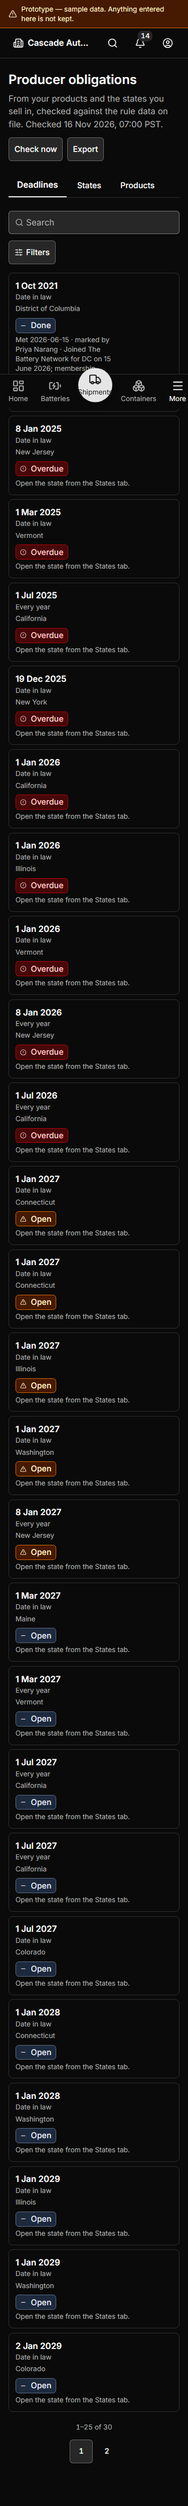
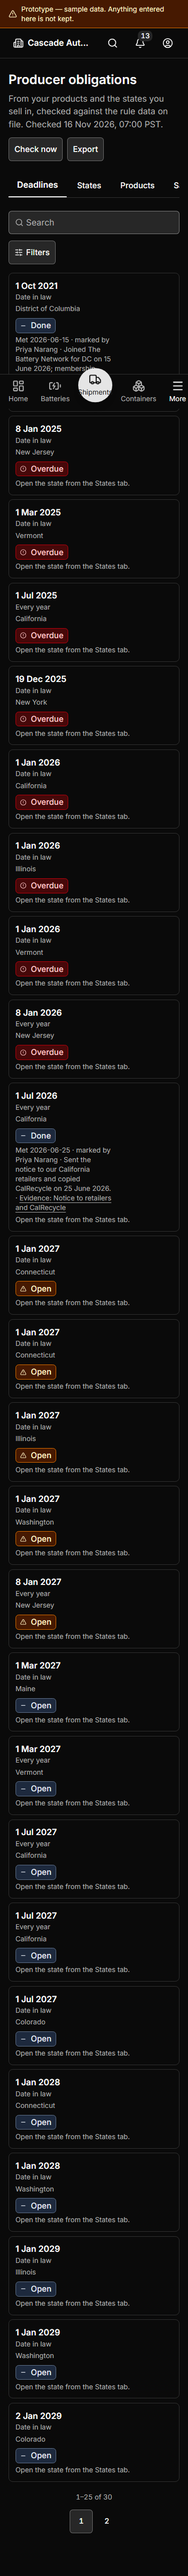
docs(contact-sheet): Filings — the Sales tab, a product's plan and California's notice; the obligations screens this unit changed, both themes, three widths
New screens: obligations-sales, obligations-plan, document-filing-packet
(resolved from the running product: the notice off its deadline's packet
link, the plan off a product's Plan link). Recaptured: the four
obligations screens, which gained the Sales tab, packets under deadlines
and the Plan link. No other screen was captured or touched.

diff --git a/contact-sheet/index.html b/contact-sheet/index.html
@@ -37,7 +37,7 @@
   <p class="lede">Every screen unit 01 built, in both themes, at 375px, 768px and 1440px, before and after the
   <code>b1a-01x-ui-pass</code> layout pass. Regenerate with <code>pnpm contact-sheet</code>. Click any image for it full size.</p>
 </header>
-<nav><a href="#group-public">Public</a><a href="#group-dashboard">Dashboard</a><a href="#group-batteries">Batteries</a><a href="#group-battery-record">Battery record</a><a href="#group-review">Review</a><a href="#group-containers">Containers</a><a href="#group-shipments">Shipments</a><a href="#group-documents">Documents</a><a href="#group-catalog">Catalog</a><a href="#group-settings">Settings</a><a href="#group-audit-log">Audit log</a><a href="#group-obligations">Obligations</a><a href="#group-denial">Denial</a></nav>
+<nav><a href="#group-public">Public</a><a href="#group-dashboard">Dashboard</a><a href="#group-batteries">Batteries</a><a href="#group-battery-record">Battery record</a><a href="#group-review">Review</a><a href="#group-containers">Containers</a><a href="#group-shipments">Shipments</a><a href="#group-documents">Documents</a><a href="#group-catalog">Catalog</a><a href="#group-settings">Settings</a><a href="#group-audit-log">Audit log</a><a href="#group-obligations">Obligations</a><a href="#group-filings">Filings</a><a href="#group-denial">Denial</a></nav>
 
 <section class="group">
   <h2 id="group-public">Public</h2>
@@ -3214,6 +3214,184 @@
         <div class="cells">
           <div class="cell missing"><span>before — not captured</span></div>
           <figure class="cell"><figcaption>after</figcaption><a href="after/obligations-auditor__dark__1440.png" target="_blank" rel="noreferrer"><img loading="lazy" src="after/obligations-auditor__dark__1440.png" alt="after"></a></figure>
+        </div>
+      </div>
+    </div>
+  </article>
+</section>
+<section class="group">
+  <h2 id="group-filings">Filings</h2>
+  
+  <article class="screen" id="obligations-sales">
+    <header>
+      <h3>Obligations — sales</h3>
+      <p class="meta"><code>/obligations</code> · P3 · Producer Compliance Officer, Cascade</p>
+      <p class="note">The latest full year by default: every product and state, a number or Not on file; Illinois' first entry kept, marked replaced (Rule 8.17).</p>
+    </header>
+    
+    <div class="theme">
+      <h4>light</h4>
+      
+      <div class="pair">
+        <p class="width">375 · phone in a storage room</p>
+        <div class="cells">
+          <div class="cell missing"><span>before — not captured</span></div>
+          <figure class="cell"><figcaption>after</figcaption><a href="after/obligations-sales__light__375.png" target="_blank" rel="noreferrer"><img loading="lazy" src="after/obligations-sales__light__375.png" alt="after"></a></figure>
+        </div>
+      </div>
+      <div class="pair">
+        <p class="width">768 · tablet</p>
+        <div class="cells">
+          <div class="cell missing"><span>before — not captured</span></div>
+          <figure class="cell"><figcaption>after</figcaption><a href="after/obligations-sales__light__768.png" target="_blank" rel="noreferrer"><img loading="lazy" src="after/obligations-sales__light__768.png" alt="after"></a></figure>
+        </div>
+      </div>
+      <div class="pair">
+        <p class="width">1440 · desk</p>
+        <div class="cells">
+          <div class="cell missing"><span>before — not captured</span></div>
+          <figure class="cell"><figcaption>after</figcaption><a href="after/obligations-sales__light__1440.png" target="_blank" rel="noreferrer"><img loading="lazy" src="after/obligations-sales__light__1440.png" alt="after"></a></figure>
+        </div>
+      </div>
+    </div>
+    <div class="theme">
+      <h4>dark</h4>
+      
+      <div class="pair">
+        <p class="width">375 · phone in a storage room</p>
+        <div class="cells">
+          <div class="cell missing"><span>before — not captured</span></div>
+          <figure class="cell"><figcaption>after</figcaption><a href="after/obligations-sales__dark__375.png" target="_blank" rel="noreferrer"><img loading="lazy" src="after/obligations-sales__dark__375.png" alt="after"></a></figure>
+        </div>
+      </div>
+      <div class="pair">
+        <p class="width">768 · tablet</p>
+        <div class="cells">
+          <div class="cell missing"><span>before — not captured</span></div>
+          <figure class="cell"><figcaption>after</figcaption><a href="after/obligations-sales__dark__768.png" target="_blank" rel="noreferrer"><img loading="lazy" src="after/obligations-sales__dark__768.png" alt="after"></a></figure>
+        </div>
+      </div>
+      <div class="pair">
+        <p class="width">1440 · desk</p>
+        <div class="cells">
+          <div class="cell missing"><span>before — not captured</span></div>
+          <figure class="cell"><figcaption>after</figcaption><a href="after/obligations-sales__dark__1440.png" target="_blank" rel="noreferrer"><img loading="lazy" src="after/obligations-sales__dark__1440.png" alt="after"></a></figure>
+        </div>
+      </div>
+    </div>
+  </article>
+  <article class="screen" id="obligations-plan">
+    <header>
+      <h3>Obligations — a product's plan</h3>
+      <p class="meta"><code>/obligations</code> · P3 · Producer Compliance Officer, Cascade</p>
+      <p class="note">Every duty the product carries across its states, earliest first, marking with the rest (Rule 8.23).</p>
+    </header>
+    
+    <div class="theme">
+      <h4>light</h4>
+      
+      <div class="pair">
+        <p class="width">375 · phone in a storage room</p>
+        <div class="cells">
+          <div class="cell missing"><span>before — not captured</span></div>
+          <figure class="cell"><figcaption>after</figcaption><a href="after/obligations-plan__light__375.png" target="_blank" rel="noreferrer"><img loading="lazy" src="after/obligations-plan__light__375.png" alt="after"></a></figure>
+        </div>
+      </div>
+      <div class="pair">
+        <p class="width">768 · tablet</p>
+        <div class="cells">
+          <div class="cell missing"><span>before — not captured</span></div>
+          <figure class="cell"><figcaption>after</figcaption><a href="after/obligations-plan__light__768.png" target="_blank" rel="noreferrer"><img loading="lazy" src="after/obligations-plan__light__768.png" alt="after"></a></figure>
+        </div>
+      </div>
+      <div class="pair">
+        <p class="width">1440 · desk</p>
+        <div class="cells">
+          <div class="cell missing"><span>before — not captured</span></div>
+          <figure class="cell"><figcaption>after</figcaption><a href="after/obligations-plan__light__1440.png" target="_blank" rel="noreferrer"><img loading="lazy" src="after/obligations-plan__light__1440.png" alt="after"></a></figure>
+        </div>
+      </div>
+    </div>
+    <div class="theme">
+      <h4>dark</h4>
+      
+      <div class="pair">
+        <p class="width">375 · phone in a storage room</p>
+        <div class="cells">
+          <div class="cell missing"><span>before — not captured</span></div>
+          <figure class="cell"><figcaption>after</figcaption><a href="after/obligations-plan__dark__375.png" target="_blank" rel="noreferrer"><img loading="lazy" src="after/obligations-plan__dark__375.png" alt="after"></a></figure>
+        </div>
+      </div>
+      <div class="pair">
+        <p class="width">768 · tablet</p>
+        <div class="cells">
+          <div class="cell missing"><span>before — not captured</span></div>
+          <figure class="cell"><figcaption>after</figcaption><a href="after/obligations-plan__dark__768.png" target="_blank" rel="noreferrer"><img loading="lazy" src="after/obligations-plan__dark__768.png" alt="after"></a></figure>
+        </div>
+      </div>
+      <div class="pair">
+        <p class="width">1440 · desk</p>
+        <div class="cells">
+          <div class="cell missing"><span>before — not captured</span></div>
+          <figure class="cell"><figcaption>after</figcaption><a href="after/obligations-plan__dark__1440.png" target="_blank" rel="noreferrer"><img loading="lazy" src="after/obligations-plan__dark__1440.png" alt="after"></a></figure>
+        </div>
+      </div>
+    </div>
+  </article>
+  <article class="screen" id="document-filing-packet">
+    <header>
+      <h3>Document — California's notice</h3>
+      <p class="meta"><code>/documents/[id]</code> · P3 · Producer Compliance Officer, Cascade</p>
+      <p class="note">A packet is not the filing, and where to send it; each item filled or a gap (Rules 8.19, 8.20). The seeded packet has no stored file, and says so.</p>
+    </header>
+    
+    <div class="theme">
+      <h4>light</h4>
+      
+      <div class="pair">
+        <p class="width">375 · phone in a storage room</p>
+        <div class="cells">
+          <div class="cell missing"><span>before — not captured</span></div>
+          <figure class="cell"><figcaption>after</figcaption><a href="after/document-filing-packet__light__375.png" target="_blank" rel="noreferrer"><img loading="lazy" src="after/document-filing-packet__light__375.png" alt="after"></a></figure>
+        </div>
+      </div>
+      <div class="pair">
+        <p class="width">768 · tablet</p>
+        <div class="cells">
+          <div class="cell missing"><span>before — not captured</span></div>
+          <figure class="cell"><figcaption>after</figcaption><a href="after/document-filing-packet__light__768.png" target="_blank" rel="noreferrer"><img loading="lazy" src="after/document-filing-packet__light__768.png" alt="after"></a></figure>
+        </div>
+      </div>
+      <div class="pair">
+        <p class="width">1440 · desk</p>
+        <div class="cells">
+          <div class="cell missing"><span>before — not captured</span></div>
+          <figure class="cell"><figcaption>after</figcaption><a href="after/document-filing-packet__light__1440.png" target="_blank" rel="noreferrer"><img loading="lazy" src="after/document-filing-packet__light__1440.png" alt="after"></a></figure>
+        </div>
+      </div>
+    </div>
+    <div class="theme">
+      <h4>dark</h4>
+      
+      <div class="pair">
+        <p class="width">375 · phone in a storage room</p>
+        <div class="cells">
+          <div class="cell missing"><span>before — not captured</span></div>
+          <figure class="cell"><figcaption>after</figcaption><a href="after/document-filing-packet__dark__375.png" target="_blank" rel="noreferrer"><img loading="lazy" src="after/document-filing-packet__dark__375.png" alt="after"></a></figure>
+        </div>
+      </div>
+      <div class="pair">
+        <p class="width">768 · tablet</p>
+        <div class="cells">
+          <div class="cell missing"><span>before — not captured</span></div>
+          <figure class="cell"><figcaption>after</figcaption><a href="after/document-filing-packet__dark__768.png" target="_blank" rel="noreferrer"><img loading="lazy" src="after/document-filing-packet__dark__768.png" alt="after"></a></figure>
+        </div>
+      </div>
+      <div class="pair">
+        <p class="width">1440 · desk</p>
+        <div class="cells">
+          <div class="cell missing"><span>before — not captured</span></div>
+          <figure class="cell"><figcaption>after</figcaption><a href="after/document-filing-packet__dark__1440.png" target="_blank" rel="noreferrer"><img loading="lazy" src="after/document-filing-packet__dark__1440.png" alt="after"></a></figure>
         </div>
       </div>
     </div>
